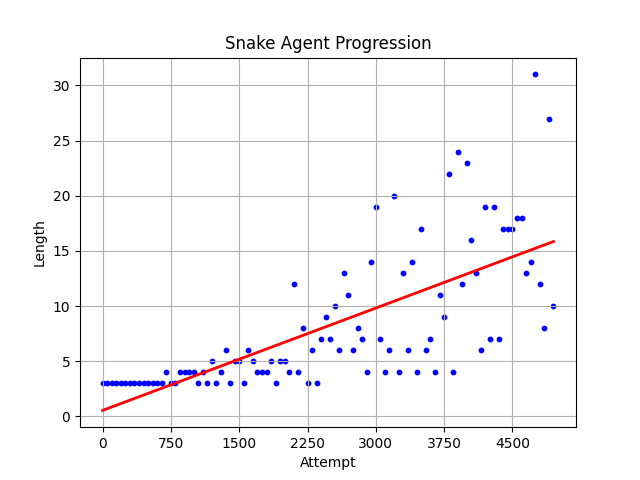
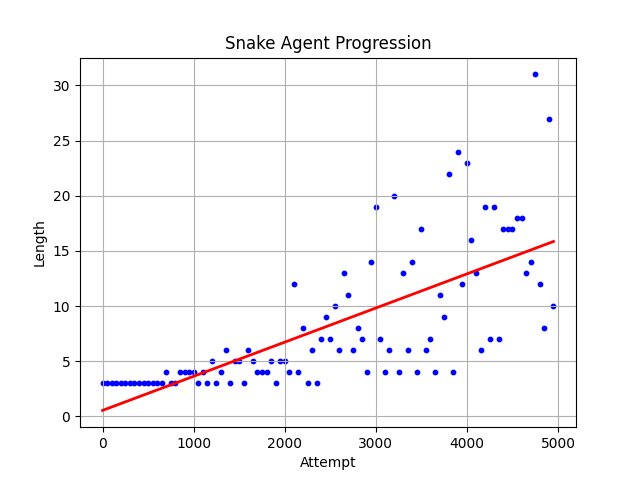
AgentV2 progress

Changed region(s): [[0.6562, 0.9062, 0.9062, 0.9375], [0.25, 0.9062, 0.5, 0.9375]]

diff --git a/agent_v2.py b/agent_v2.py
@@ -1,0 +1,59 @@
+import torch
+import torch.nn as nn
+import torch.optim as optim
+import random
+import numpy as np
+from collections import deque
+
+
+class Layers(nn.Module):
+    def __init__(self):
+        super().__init__()
+        self.layer1 = nn.Linear(8, 128)
+        self.layer2 = nn.Linear(128, 128)
+        self.layer3 = nn.Linear(128, 4)
+
+    def forward(self, x):
+        x = self.layer1(x)
+        x = torch.relu(x)
+        x = self.layer2(x)
+        x = torch.relu(x)
+        x = self.layer3(x)
+        return x
+    
+class ReplayBuffer():
+    def __init__(self, capacity):
+        self.agent_mem = deque(maxlen=capacity)
+
+    def storage(self, experience):
+        self.agent_mem.append(experience)
+    
+    def sample(self, batch_size):
+        return random.sample(self.agent_mem, k=batch_size)
+    
+class Agent_V2():
+    def __init__(self):
+        self.layers = Layers()
+        self.buffer = ReplayBuffer(3500)
+        self.learning_rate = .25
+        self.discount_factor = .90
+        self.batch_size = 64
+        try:
+            self.exploration_rate = np.load("exploration_rate_v2.npy")
+        except:
+            self.exploration_rate = 1.0
+        self.decay_rate = .999
+        self.min_exploration = .005
+        self.optimizer = optim.Adam(self.layers.parameters(), self.learning_rate)
+        self.criterion = nn.MSELoss()
+
+    def store(self, experience):
+        self.buffer.storage(experience)
+
+    def decide(self, state):
+        tensor = torch.from_numpy(state)
+        random_choice = random.randint(0, 3)
+        if(random.random() < self.exploration_rate):
+            return random_choice
+        else:
+            return torch.argmax(self.layers(tensor)).item()